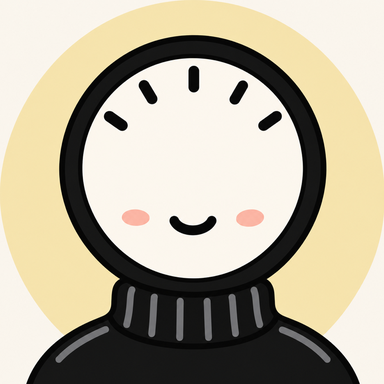
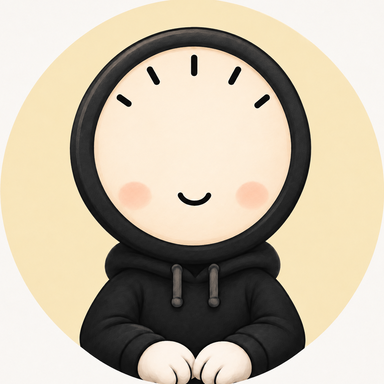
feat(models): draw the loading picture on the redrawn character
The Models page loading picture now uses the new blank bust from the cast
style redraw: a 384 px crop of assets/branding/character/gauge-head-blank.png
to its butter circle. The needle, hub and eyes the app draws on it were
measured from the drawing by comparing the Codex icon with the blank bust:
hub at (0.5037, 0.3824) of the side, a 0.1745 needle 0.0277 wide, a 0.034
hub, and eyes at y 0.445. The eyes are plain dark dots with no white
highlight, all in the cast's ink #121312. The ticks sit at plus and minus 56
degrees, so the sweep and the rest pose now use 56 instead of 58. Sweep,
eyes that follow the needle, blink and the Reduce Motion rest pose at the
leftmost tick are unchanged.

Checked on macOS 27.0.1 (M1 Max), app packaged on the M4, with Parker's
history: --show-home --show-models recorded; the new bust showed for about
1.2 s, the needle swept from the leftmost tick to the rightmost and back,
the eyes followed with no highlight, and the needle, hub and eyes sat on
the drawing. The rest pose drawn with the same numbers lands on the Codex
icon within about 1 px. Reduce Motion was not switched on (a system
setting); the rest pose is the animation's first frame.

Customer-note: The character on the Models loading screen is redrawn to match the new app icon.
Tested: swift test + package pass (here, 77s) tree 3a92697b29c2

diff --git a/Sources/AIUsageStats/GaugeCharacterLoadingView.swift b/Sources/AIUsageStats/GaugeCharacterLoadingView.swift
@@ -26,35 +26,30 @@ private struct GaugeCharacterPose {
 
     init(elapsed: TimeInterval) {
         let sweep = elapsed.truncatingRemainder(dividingBy: 2.4) / 2.4
-        needleRadians = (-58 * cos(2 * .pi * sweep) + 2.5 * sin(14 * .pi * sweep)) * .pi / 180
+        needleRadians = (-56 * cos(2 * .pi * sweep) + 2.5 * sin(14 * .pi * sweep)) * .pi / 180
         let blink = elapsed.truncatingRemainder(dividingBy: 3.7)
         eyeOpening = blink < 0.16 ? max(abs(cos(.pi * blink / 0.16)), 0.12) : 1
     }
 
     @MainActor func draw(in graphics: inout GraphicsContext, size: CGSize) {
         let side = min(size.width, size.height)
-        let ink = GraphicsContext.Shading.color(Color(red: 0.067, green: 0.067, blue: 0.067))
+        let ink = GraphicsContext.Shading.color(Color(red: 0.071, green: 0.075, blue: 0.071))
         if let head = Self.head {
             graphics.draw(head, in: CGRect(x: 0, y: 0, width: side, height: side))
         }
-        for eyeX in [0.3998, 0.6054] {
-            let center = CGPoint(x: (eyeX + 0.012 * sin(needleRadians)) * side, y: 0.4903 * side)
-            let width = 0.057 * side
-            let height = 0.0945 * side * eyeOpening
+        for eyeX in [0.3999, 0.6062] {
+            let center = CGPoint(x: (eyeX + 0.012 * sin(needleRadians)) * side, y: 0.4450 * side)
+            let width = 0.0447 * side
+            let height = 0.0606 * side * eyeOpening
             graphics.fill(Path(ellipseIn: CGRect(x: center.x - width / 2, y: center.y - height / 2, width: width, height: height)),
                           with: ink)
-            if eyeOpening > 0.5 {
-                graphics.fill(Path(ellipseIn: CGRect(x: center.x - width * 0.05, y: center.y - height * 0.32,
-                                                     width: width * 0.35, height: height * 0.26)),
-                              with: .color(.white))
-            }
         }
-        let hub = CGPoint(x: 0.5016 * side, y: 0.4372 * side)
+        let hub = CGPoint(x: 0.5037 * side, y: 0.3824 * side)
         var needle = Path()
         needle.move(to: hub)
-        needle.addLine(to: CGPoint(x: hub.x + 0.18 * side * sin(needleRadians), y: hub.y - 0.18 * side * cos(needleRadians)))
-        graphics.stroke(needle, with: ink, style: StrokeStyle(lineWidth: 0.024 * side, lineCap: .round))
-        let hubRadius = 0.029 * side
+        needle.addLine(to: CGPoint(x: hub.x + 0.1745 * side * sin(needleRadians), y: hub.y - 0.1745 * side * cos(needleRadians)))
+        graphics.stroke(needle, with: ink, style: StrokeStyle(lineWidth: 0.0277 * side, lineCap: .round))
+        let hubRadius = 0.034 * side
         graphics.fill(Path(ellipseIn: CGRect(x: hub.x - hubRadius, y: hub.y - hubRadius, width: hubRadius * 2, height: hubRadius * 2)),
                       with: ink)
     }

diff --git a/docs/VALIDATION.md b/docs/VALIDATION.md
@@ -1084,5 +1084,6 @@ Local development build of the working tree on macOS 27.0.1, Apple M1 Max. Packa
 | Command-Tab switcher | Shows the new Paper icon while a Little Limits window is open. |
 | `--show-settings --show-about` with `AppIconChoice` `enamel`, then `night` | Settings shows Paper, then Night, each with its new 16 px icon; About shows the full Paper icon, then the Night icon. The stored choice was removed afterwards. |
 | Banner, social preview, lockups | Every word is the October 29 lettering, copied by pixel; checked letter by letter. |
+| Models page loading picture | `--show-home --show-models`, screen recorded: the new bust shows for about 1.2 s, the needle sweeps from the leftmost tick to the rightmost and back, the eyes follow it with no white highlight, and the needle, hub and eyes sit on the drawing. The rest pose drawn with the same numbers lands on the Codex icon within about 1 px. |
 
-Not verified: the Night icon in the Dock (the Dock is hidden on this Mac; About uses the same image), and Intel, macOS 14 and 15 runtime.
+Not verified: the Night icon in the Dock (the Dock is hidden on this Mac; About uses the same image), Reduce Motion on (a system setting, left unchanged; the rest pose is the animation's first frame), and Intel, macOS 14 and 15 runtime.
